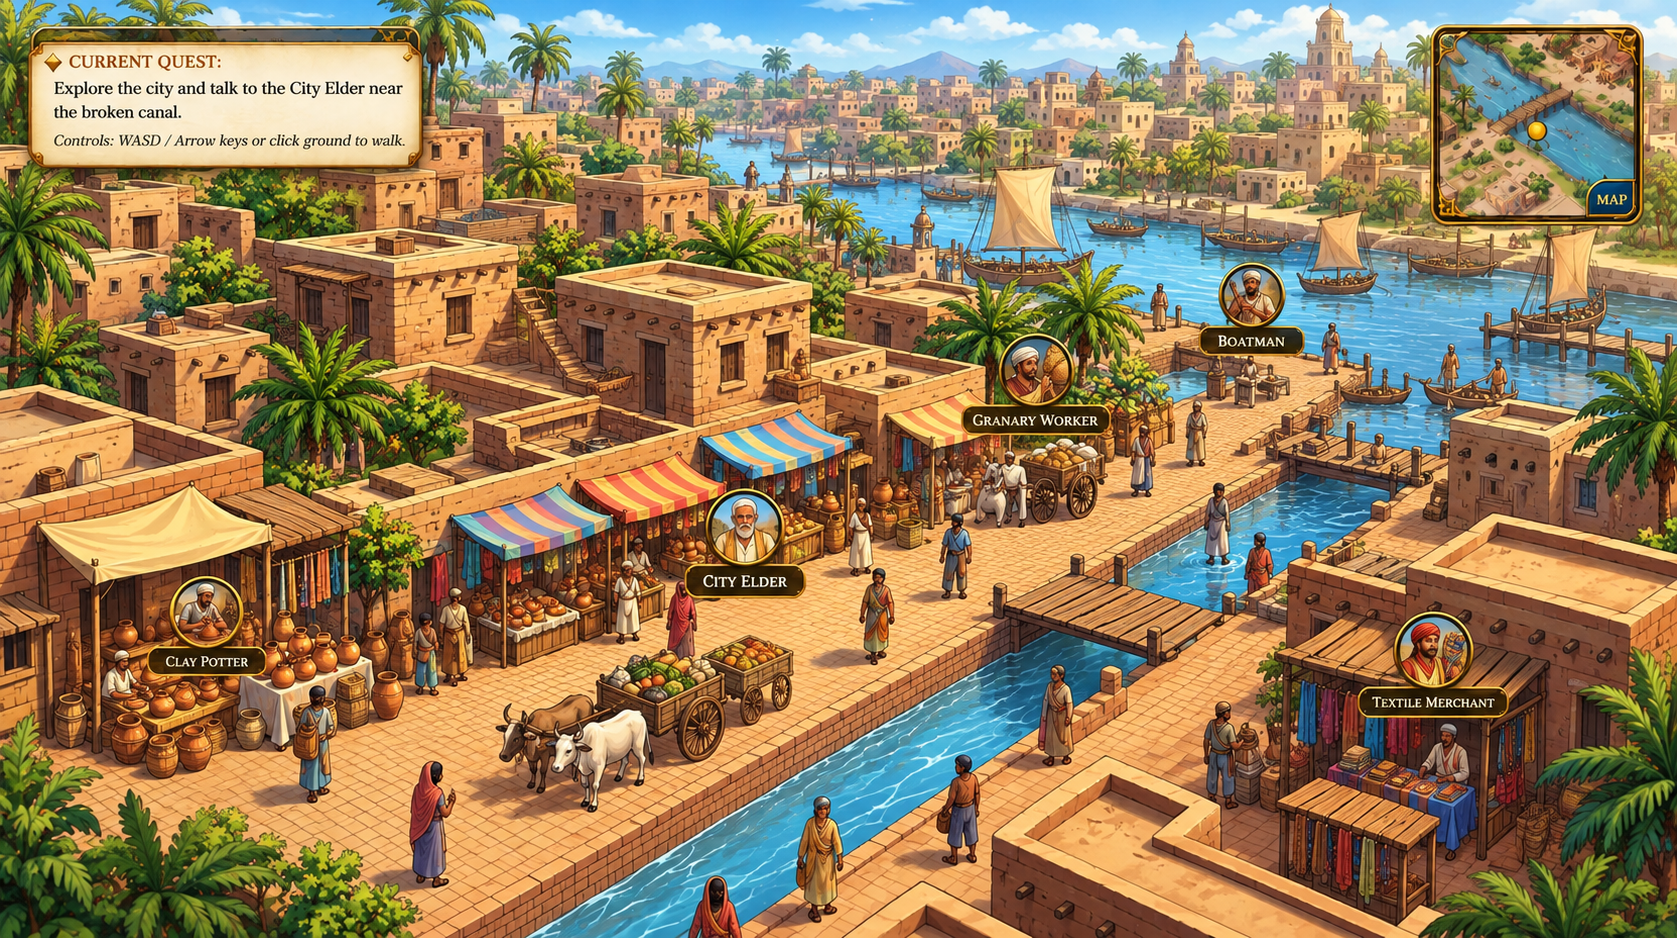
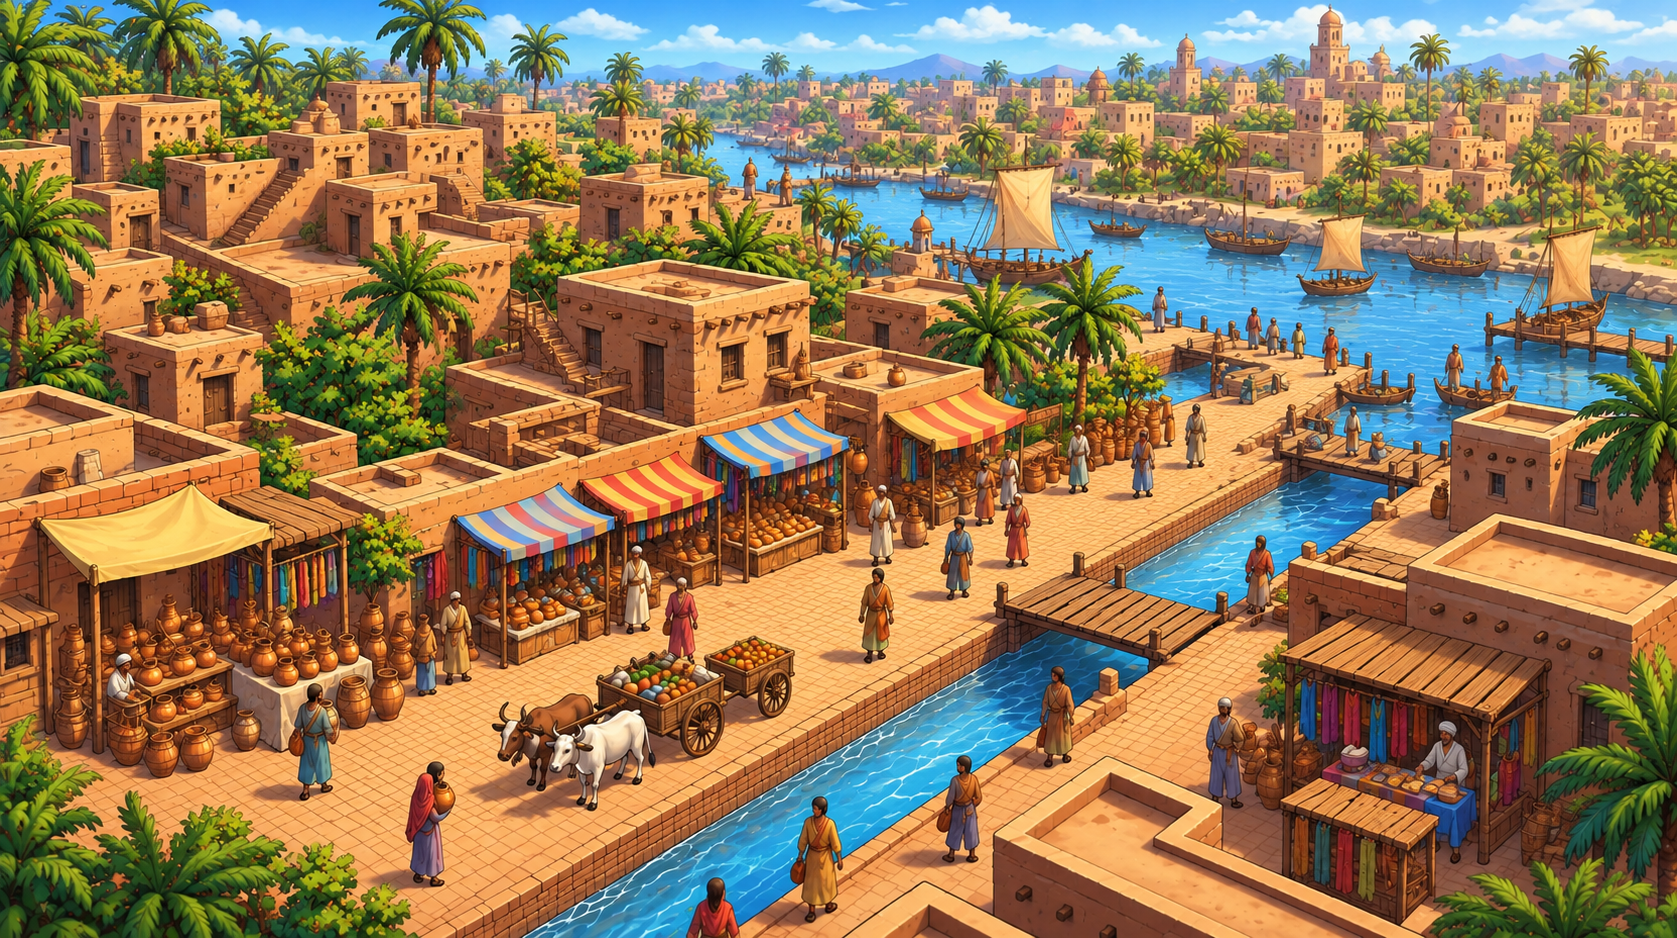
Update Indus Valley Screen

diff --git a/src/screens/WorldExploreScreen.jsx b/src/screens/WorldExploreScreen.jsx
@@ -10,16 +10,17 @@ export default function WorldExploreScreen({ onNavigate }) {
   const [isSprinting, setIsSprinting] = useState(false);
   const [nearElder, setNearElder] = useState(false);
   const [dialogueHint, setDialogueHint] = useState("Walk to the City Elder near the canal.");
+  const [selectedNpc, setSelectedNpc] = useState(null);
 
   // City Elder location
   const elderPos = { x: 380, y: 460, name: "City Elder", role: "Harappan Master Planner" };
 
   // Other NPCs in the city
   const npcs = [
-    { id: 1, name: "Clay Potter", x: 220, y: 380, icon: "🏺", greeting: "Finest painted terracotta pots in the lower town!" },
-    { id: 2, name: "Textile Merchant", x: 740, y: 440, icon: "🧵", greeting: "Spun cotton dyed in vibrant madder red!" },
-    { id: 3, name: "Granary Worker", x: 580, y: 260, icon: "🌾", greeting: "The great granary is well stocked for the season." },
-    { id: 4, name: "Boatman", x: 760, y: 160, icon: "⛵", greeting: "The river carries trade beads all the way to Mesopotamia!" }
+    { id: 1, name: "Clay Potter", x: 220, y: 380, asset: '/assets/clay_potter.png', greeting: "I shape clay from the river into pots for everyday use." },
+    { id: 2, name: "Textile Merchant", x: 740, y: 440, asset: '/assets/textile_merchant.png', greeting: "Fine textiles from our city are traded far and wide." },
+    { id: 3, name: "Granary Worker", x: 580, y: 260, asset: '/assets/granary_worker.png', greeting: "We store grains from the farms for the whole city." },
+    { id: 4, name: "Boatman", x: 760, y: 160, asset: '/assets/boatman.png', greeting: "I help people and goods travel across the river." }
   ];
 
   const canvasRef = useRef(null);
@@ -154,20 +155,9 @@ export default function WorldExploreScreen({ onNavigate }) {
       <div 
         className="absolute inset-0 bg-cover bg-center transition-all duration-300"
         style={{
-          backgroundImage: `url('/assets/world_isometric.jpg')`,
-          filter: 'brightness(0.95)'
+          backgroundImage: `url('/assets/world_isometric.png')`
         }}
-      >
-        {/* Dynamic Water Animation Overlay over the canal */}
-        <div 
-          className="absolute inset-0 pointer-events-none opacity-40 mix-blend-screen"
-          style={{
-            background: 'linear-gradient(45deg, transparent 40%, rgba(56, 189, 248, 0.4) 50%, transparent 60%)',
-            backgroundSize: '200% 200%',
-            animation: 'waterFlowAnim 4s linear infinite'
-          }}
-        ></div>
-      </div>
+      />
 
       {/* Interactive Entity Layer Canvas / Overlay */}
       <div 
@@ -177,10 +167,15 @@ export default function WorldExploreScreen({ onNavigate }) {
       >
         {/* City Elder NPC with Animated [!] Quest Marker */}
         <div 
-          onClick={(e) => { e.stopPropagation(); handleTalkToElder(); }}
           style={{ left: `${(elderPos.x / 960) * 100}%`, top: `${(elderPos.y / 600) * 100}%` }}
-          className="absolute -translate-x-1/2 -translate-y-full cursor-pointer group z-30"
+          className="absolute -translate-x-1/2 -translate-y-full group z-30"
         >
+          {selectedNpc === 'elder' && (
+            <div className="absolute bottom-full left-1/2 z-50 mb-2 w-48 -translate-x-1/2 pointer-events-none parchment-box npc-dialogue-popup px-3 py-2 text-center font-philosopher text-xs leading-snug text-amber-950">
+              Our city thrives because of the canal and its people.
+            </div>
+          )}
+
           {/* Quest Icon Exclamation Mark */}
           <div className="flex flex-col items-center quest-marker">
             <div className="w-7 h-7 rounded-full bg-gradient-to-br from-amber-300 via-amber-500 to-amber-700 border-2 border-white shadow-lg shadow-amber-500/80 flex items-center justify-center font-black text-amber-950 text-sm">
@@ -191,10 +186,11 @@ export default function WorldExploreScreen({ onNavigate }) {
 
           {/* Elder Avatar Indicator */}
           <div className="mt-1 flex flex-col items-center">
-            <div className="w-12 h-12 rounded-full border-2 border-amber-300 bg-amber-950/80 p-0.5 shadow-xl group-hover:scale-110 transition-transform overflow-hidden">
-              <div className="w-full h-full rounded-full bg-gradient-to-b from-amber-700 to-stone-900 flex items-center justify-center text-xl">
-                👳♂
-              </div>
+              <div
+                onClick={(e) => { e.stopPropagation(); sound.playClick(); setSelectedNpc('elder'); handleTalkToElder(); }}
+                className="w-16 h-16 rounded-full border-2 border-amber-300 bg-amber-950/80 p-0.5 shadow-xl group-hover:scale-110 transition-transform overflow-hidden cursor-pointer"
+              >
+                <img src="/assets/city_elder.png" alt="City Elder" className="w-full h-full object-contain" style={{ filter: 'drop-shadow(0 0 1px #D4AF37) drop-shadow(0 0 4px rgba(255, 215, 106, 0.7))' }} />
             </div>
             <span className="mt-1 px-2 py-0.5 rounded bg-amber-950/90 border border-amber-500 text-[10px] font-cinzel font-bold text-amber-200 tracking-wider whitespace-nowrap shadow">
               {elderPos.name}
@@ -207,15 +203,18 @@ export default function WorldExploreScreen({ onNavigate }) {
           <div
             key={npc.id}
             style={{ left: `${(npc.x / 960) * 100}%`, top: `${(npc.y / 600) * 100}%` }}
-            className="absolute -translate-x-1/2 -translate-y-full cursor-pointer group opacity-90 hover:opacity-100 transition-opacity"
-            onClick={(e) => {
-              e.stopPropagation();
-              sound.playClick();
-              alert(`${npc.name}: "${npc.greeting}"`);
-            }}
+            className="absolute -translate-x-1/2 -translate-y-full group opacity-90 hover:opacity-100 transition-opacity"
           >
-            <div className="w-9 h-9 rounded-full bg-stone-900/80 border border-amber-600 flex items-center justify-center text-base shadow-md group-hover:scale-110 transition-transform">
-              {npc.icon}
+            {selectedNpc === npc.id && (
+              <div className="absolute bottom-full left-1/2 z-50 mb-2 w-48 -translate-x-1/2 pointer-events-none parchment-box npc-dialogue-popup px-3 py-2 text-center font-philosopher text-xs leading-snug text-amber-950">
+                {npc.greeting}
+              </div>
+            )}
+            <div
+              onClick={(e) => { e.stopPropagation(); sound.playClick(); setSelectedNpc(npc.id); }}
+              className="w-14 h-14 rounded-full bg-stone-900/80 border border-amber-600 flex items-center justify-center text-base shadow-md group-hover:scale-110 transition-transform overflow-hidden cursor-pointer"
+            >
+              <img src={npc.asset} alt={npc.name} className="w-full h-full object-contain" style={{ filter: 'drop-shadow(0 0 1px #D4AF37) drop-shadow(0 0 4px rgba(255, 215, 106, 0.7))' }} />
             </div>
             <span className="hidden group-hover:block absolute top-full mt-1 left-1/2 -translate-x-1/2 px-1.5 py-0.5 rounded bg-black/80 text-[9px] font-philosopher text-amber-200 whitespace-nowrap border border-amber-800">
               {npc.name}
@@ -234,11 +233,11 @@ export default function WorldExploreScreen({ onNavigate }) {
           {/* Explorer Avatar */}
           <div className={`relative flex flex-col items-center ${isMoving ? 'animate-bounce' : ''}`}>
             {/* Backpack tag */}
-            <div className="w-10 h-10 rounded-full bg-gradient-to-br from-sky-400 via-sky-600 to-amber-900 border-2 border-white shadow-xl flex items-center justify-center text-lg">
-              🎒
+            <div className="w-14 h-14 rounded-full bg-gradient-to-br from-sky-400 via-sky-600 to-amber-900 border-2 border-white shadow-xl flex items-center justify-center text-lg">
+              <img src="/assets/ved.png" alt="Ved" className="w-full h-full object-contain" style={{ filter: 'drop-shadow(0 0 1px #D4AF37) drop-shadow(0 0 4px rgba(255, 215, 106, 0.7))' }} />
             </div>
             <div className="px-2 py-0.5 rounded-full bg-sky-950/90 border border-sky-400 text-[9px] font-cinzel font-bold text-sky-200 shadow mt-0.5">
-              Player (Raj)
+              VED
             </div>
           </div>
         </div>
@@ -262,12 +261,10 @@ export default function WorldExploreScreen({ onNavigate }) {
 
         {/* Minimap (Top-Right) */}
         <div className="w-28 h-28 sm:w-36 sm:h-36 rounded-xl carved-tablet p-1.5 shadow-2xl border-2 border-amber-400 pointer-events-auto bg-stone-950/90 relative overflow-hidden">
-          <div className="w-full h-full rounded-lg bg-[#3a2517] relative flex items-center justify-center">
-            {/* Minimap River Path */}
-            <div className="absolute right-0 top-0 bottom-0 w-8 bg-sky-600/70 border-l border-sky-400"></div>
-            {/* Minimap Street Grid */}
-            <div className="absolute inset-x-0 h-2 top-1/2 -translate-y-1/2 bg-amber-900/60"></div>
-            <div className="absolute inset-y-0 w-2 left-1/3 bg-amber-900/60"></div>
+          <div
+            className="w-full h-full rounded-lg relative flex items-center justify-center bg-cover bg-center"
+            style={{ backgroundImage: "url('/assets/world_isometric.png')" }}
+          >
 
             {/* Elder Marker on Minimap */}
             <div 
@@ -304,34 +301,34 @@ export default function WorldExploreScreen({ onNavigate }) {
       {/* Bottom Controls: Virtual D-Pad (Left) & Action Buttons (Right) - Matching PDF Page 2 */}
       <div className="relative z-30 flex items-end justify-between p-4 pointer-events-none">
         {/* Virtual D-Pad / Joystick (Bottom-Left) */}
-        <div className="pointer-events-auto grid grid-cols-3 gap-1 bg-stone-950/80 p-2 rounded-2xl border border-amber-700/60 shadow-2xl backdrop-blur-sm">
+        <div className="pointer-events-auto grid grid-cols-3 gap-1 bg-[#24160f]/90 p-2 rounded-2xl border border-amber-700/70 shadow-2xl backdrop-blur-sm">
           <div></div>
           <button 
             onClick={() => handleDPadPress('up')}
-            className="w-10 h-10 rounded-lg bg-stone-800 active:bg-amber-600 border border-amber-500/40 flex items-center justify-center text-amber-200"
+            className="w-10 h-10 rounded-lg bg-[#4a2d1b] active:bg-amber-700 border border-amber-500/60 flex items-center justify-center text-amber-100 shadow-[0_0_8px_rgba(212,175,55,0.2)]"
           >
             <ChevronUp className="w-5 h-5" />
           </button>
           <div></div>
           <button 
             onClick={() => handleDPadPress('left')}
-            className="w-10 h-10 rounded-lg bg-stone-800 active:bg-amber-600 border border-amber-500/40 flex items-center justify-center text-amber-200"
+            className="w-10 h-10 rounded-lg bg-[#4a2d1b] active:bg-amber-700 border border-amber-500/60 flex items-center justify-center text-amber-100 shadow-[0_0_8px_rgba(212,175,55,0.2)]"
           >
             <ChevronLeft className="w-5 h-5" />
           </button>
-          <div className="w-10 h-10 rounded-lg bg-stone-900 border border-amber-800/40 flex items-center justify-center text-[10px] font-cinzel text-amber-400/80 font-bold">
+          <div className="w-10 h-10 rounded-lg bg-[#2f1d12] border border-amber-800/60 flex items-center justify-center text-[10px] font-cinzel text-amber-300/90 font-bold shadow-[inset_0_0_8px_rgba(0,0,0,0.35)]">
             MOVE
           </div>
           <button 
             onClick={() => handleDPadPress('right')}
-            className="w-10 h-10 rounded-lg bg-stone-800 active:bg-amber-600 border border-amber-500/40 flex items-center justify-center text-amber-200"
+            className="w-10 h-10 rounded-lg bg-[#4a2d1b] active:bg-amber-700 border border-amber-500/60 flex items-center justify-center text-amber-100 shadow-[0_0_8px_rgba(212,175,55,0.2)]"
           >
             <ChevronRight className="w-5 h-5" />
           </button>
           <div></div>
           <button 
             onClick={() => handleDPadPress('down')}
-            className="w-10 h-10 rounded-lg bg-stone-800 active:bg-amber-600 border border-amber-500/40 flex items-center justify-center text-amber-200"
+            className="w-10 h-10 rounded-lg bg-[#4a2d1b] active:bg-amber-700 border border-amber-500/60 flex items-center justify-center text-amber-100 shadow-[0_0_8px_rgba(212,175,55,0.2)]"
           >
             <ChevronDown className="w-5 h-5" />
           </button>

diff --git a/src/index.css b/src/index.css
@@ -292,6 +292,11 @@ html, body, #root {
 .parchment-box::before { top: 6px; left: 8px; }
 .parchment-box::after { top: 6px; right: 8px; }
 
+.npc-dialogue-popup::before,
+.npc-dialogue-popup::after {
+  display: none;
+}
+
 /* Game Style Action Buttons */
 .btn-gold {
   background: linear-gradient(180deg, #fce07a 0%, #d49f2b 50%, #9e6d0a 100%);
